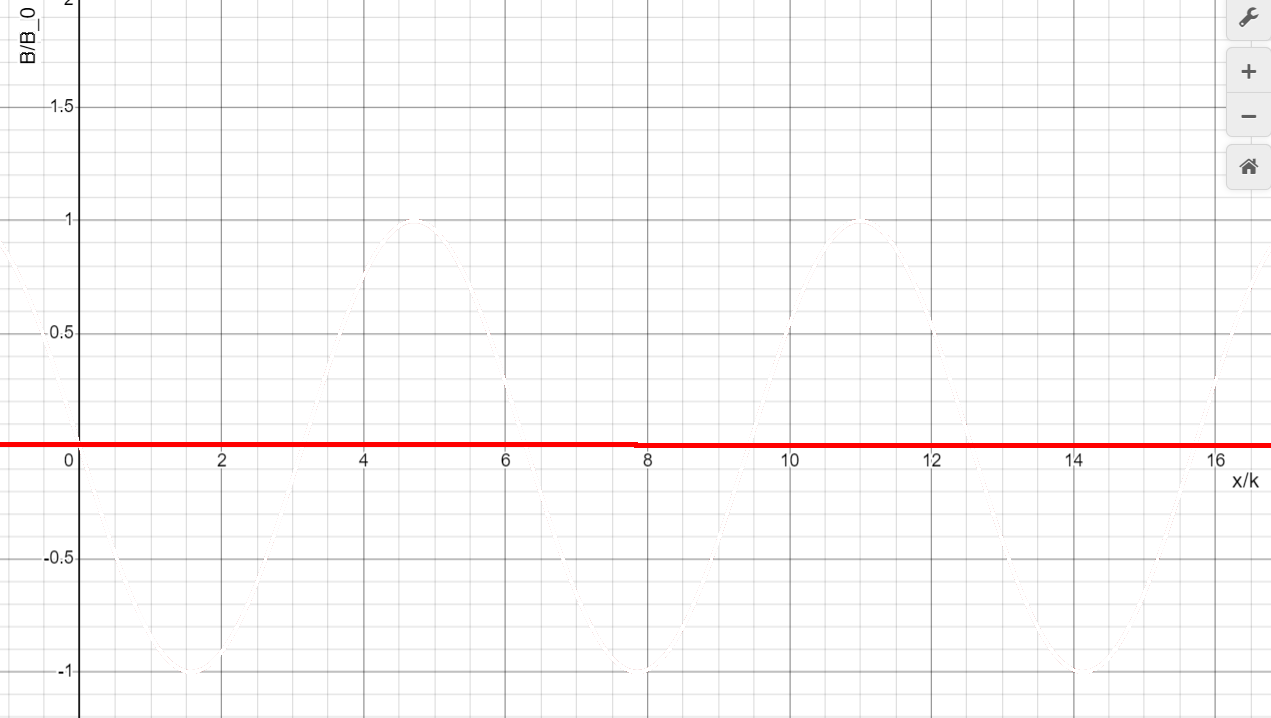
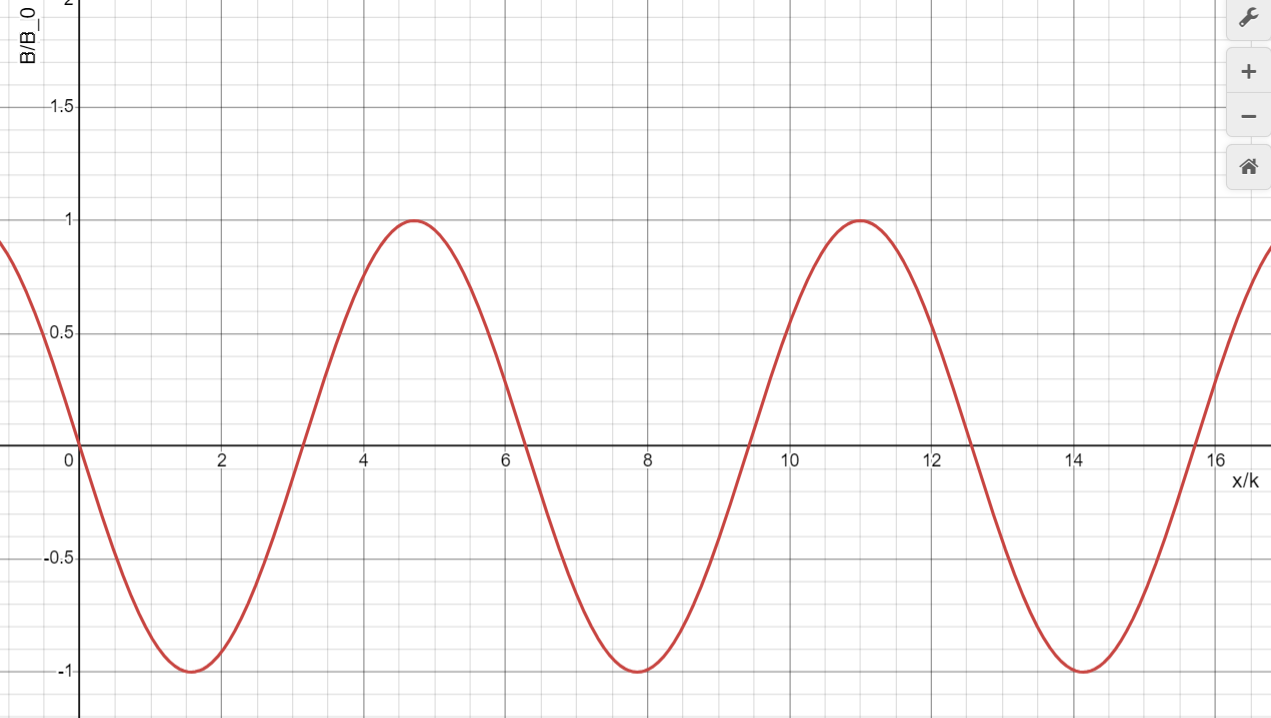
E&M Homework #7

diff --git a/Advanced Electromagnetism/Homework/Homework 8.md b/Advanced Electromagnetism/Homework/Homework 8.md
@@ -1,29 +1,27 @@
 **Name:** Stanley Goodwin
 **Date:** 10/26/2024
-**Collaborators:** None
-**Time Taken:** XXX Hours
+**Collaborators:** Hasan, Chris
+**Time Taken:** 4 Hours
 
 ---
 ## Question 1
 Consider a 3D electromagnetic plane wave in vacuum, described in complex form by $\vec{E}(\vec{r},t)=\vec{E}_0e^{i\left(\vec{k}\cdot\vec{r}-\omega t\right)}$, where $\vec{E_0}=E_0\hat{y}$, with $\vec{E_0}=|E_0|e^{i\pi/2}$. $\vec{k}$ is the wave vector $k\hat{x}$ and $\omega$ is the angular frequency. As usual, the true field is $\vec{E}_r=\Re\left(\vec{E}\right)$.
 ### 1.A
-#### 1.A.I
 *Which direction is the wave moving in, and in what direction does the electric field point?*
 $$\begin{align}
 \text{Wave Propagation} : \hat{x}\\
 \text{Electric Field} : \hat{y}\\
+\text{Magnetic Field} : \hat{z}\\
 \end{align}$$
-#### 1.A.II
 *What is the speed, wavelength, and period of the wave?*
 $$\begin{align}
-T&=\dfrac{2\pi}{\omega}\\
+v&=\dfrac{\omega}{k}\\
 \lambda&=\dfrac{2\pi}{k}\\
-c&=\dfrac{\omega}{k}
+T&=\dfrac{2\pi}{\omega}
 \end{align}$$
-#### 1.A.III
 *What does the phase of $\pi/2$ in $\vec{E_0}$ do?*
-The phase of $\pi/2$ moves the electric wave back by a quarter of a wavelength, shown as a phase offset.
-#### 1.A.IV
+ - The phase of $\pi/2$ moves the electric wave back by a quarter of a wavelength, shown as a phase offset.
+
 Sketch the true field $\vec{E}_r(x,0,0,0)$ (a 2D plot with x on the horizontal axis) and $\vec{E}_r(0,0,0,t)$ (a 2d plot with t on the horizontal axis). Clearly indicate the direction of the field and the scale of both your axes. *How is the field at $(0,a,0)$ different from the field at $y=0$*?
 
 ![[HW8_1AIV_1.png]]
@@ -34,43 +32,170 @@ Sketch the true field $\vec{E}_r(x,0,0,0)$ (a 2D plot with x on the horizontal a
 The field at $(0,a,0)$ is identical to the field at $y=0$, since there is no $y$-component.
 ### 1.B
 *Describe in words what this mathematical expression represents physically. Why is this called a plane wave (where is/are the planes)?*
-
-The plane wave is a 2D cross-section of space whose normal is in the direction of propagation and the plane spanned by the cross product of $\vec{E}$ and $\vec{B}$. Alternatively, the "plane" of the plane wave is the plane of the direction that the Electric field is independent of, and so the $y$ and $z$ axes.
+ - The plane wave is a 2D cross-section of space whose normal is in the direction of propagation and the plane spanned by the cross product of $\vec{E}$ and $\vec{B}$. 
+ - Alternatively, the "plane" of the plane wave is the plane of the direction that the Electric field is independent of, and so the $y$ and $z$ axes.
 
 *Sketch or represent this in 3d. Describe how the direction of the electric field changes in time. If $\vec{E}$ always points along the same axis, the wave is said to be linearly polarized. Is this wave linearly polarized?*
-
 ![[HW8_2.png]]
 **Figure 3:** Plot of the plane wave, the span of $\vec{E}$, scaled by $1/k$ on the $x$-axis.
 
-The wave is linearly polarized since the plane wave never changes direction. It always travels in the $x$ direction found in the $\vec{k}$.
+ - The wave is linearly polarized since the plane wave never changes direction. 
+ - It always travels in the $x$ direction found in the $\vec{k}$.
 ### 1.C
-Find the associated magnetic field $\vec{B}(\vec{r},t)$ for this plane wave. Sketch the magnetic fields $\vec{B}(x,0,0,0)$ and $\vec{B}(0,0,0,t)$ (as above, be clear about your axes. *Describe in words how $B$ compares/contrasts with $E$.*
+Find the associated magnetic field $\vec{B}(\vec{r},t)$ for this plane wave.
+Sketch the magnetic fields $\vec{B}(x,0,0,0)$ and $\vec{B}(0,0,0,t)$ (as above, be clear about your axes.
+*Describe in words how $B$ compares/contrasts with $E$.*
+
 ![[HW8_1C_1.png]]
 **Figure 4:** Plot of $\vec{B}_r(x,0,0,0)$, scaled by $1/k$ on the $x$-axis, and scaled by $1/|B_0|$ on the $y$-axis.
 
 ![[HW8_1C_2.png]]
 **Figure 5:** Plot of $\vec{B}_r(0,0,0,t)$, scaled by $1/\omega$ on the $x$-axis, and scaled by $1/|B_0|$ on the $y$-axis.
-
-The time-dependence is identical, since they are in-phase orthogonal waves.
-The $x$ component of $\vec{B}$ is $0$, since $\vec{B}$ points in the $\hat{z}$ direction.
+ - The time-dependence is identical, since they are in-phase orthogonal waves.
+ - The only difference between the fields is the scaling between the two.
 ### 1.D
-
+Calculate the energy density $\mathcal{U}_\text{EM}$, the Poynting Vector $\vec{S}$, and the momentum density for these fields. Interpret the answers physically—make sense of their units, signs, and directions.
+**Note:** The correct way to do this is to take the real parts of E and B first, and then use the usual formulas to find the desired quantities.
+$$\begin{align}
+\mathcal{U}_\text{EM}&=\epsilon_0 E^2\\
+&=\epsilon_0 |\vec{E}_0|^2\cos^2\left(\vec{k}\cdot\vec{r}-\omega t+\pi/2\right)\\
+\Aboxed{\mathcal{U}_\text{EM}&=\epsilon_0 E_0^2\cos^2\left(\vec{k}\cdot\vec{r}-\omega t+\pi/2\right)}\\
+\Aboxed{\langle\mathcal{U}_\text{EM}\rangle&=\dfrac{1}{2}\epsilon_0 E_0^2}
+\end{align}$$
+$$\begin{align}
+\vec{S}&=\dfrac{\vec{E}\times\vec{B}}{\mu_0}\\
+&=\dfrac{\vec{E}\cdot\vec{E}/c}{\mu_0}\hat{k}\\
+&=\dfrac{E^2}{c\mu_0}\hat{x}\\
+&=c\epsilon_0|\vec{E}_0|^2\cos^2\left(\vec{k}\cdot\vec{r}-\omega t+\pi/2\right)\hat{x}\\
+\Aboxed{\vec{S}&=c\epsilon_0E_0^2\cos^2\left(\vec{k}\cdot\vec{r}-\omega t+\pi/2\right)\hat{x}}\\
+\Aboxed{\langle\vec{S}\rangle&=c\epsilon_0E_0^2\hat{x}}
+\end{align}$$
+$$\begin{align}
+\vec{\mathbb{P}}&=\dfrac{1}{c^2}\vec{S}\\
+&=\dfrac{\epsilon_0E_0^2}{c}\cos^2\left(\vec{k}\cdot\vec{r}-\omega t+\pi/2\right)\hat{x}\\
+\Aboxed{\vec{\mathbb{P}}&=\dfrac{\epsilon_0E_0^2}{c}\cos^2\left(\vec{k}\cdot\vec{r}-\omega t+\pi/2\right)\hat{x}}\\
+\Aboxed{\vec{\langle\mathbb{P}\rangle}&=\dfrac{\epsilon_0E_0^2}{2c}\hat{x}}
+\end{align}$$
 ---
 ## Question 2
-
+Write down the real $\vec{E}$ and $\vec{B}$ fields for a monochromatic plane wave of amplitude $E_0$, frequency $f$ (given in Hz), and phase angle $\pi/2$ that is traveling in the direction from the origin to the point $(1,1,0)$ with polarization in the $xy$-plane. Please give the explicit Cartesian components of $\vec{k}$ and also of the $\vec{E}$ and $\vec{B}$ fields. Your final answer might involve new symbols, but they should all be clearly defined in terms of just the two givens ($E_0$ and $f$) and fundamental constants.
+$$\begin{align}
+\Aboxed{\vec{k}&=\hat{x}+\hat{y}} \implies \hat{k}=\dfrac{1}{\sqrt{2}}\hat{x}+\dfrac{1}{\sqrt{2}}\hat{y}\\
+\Aboxed{\vec{E}(x,y,z,t)&=E_0\cos\left(x+y-\omega t+\pi/2\right)\hat{z}}\\
+\Aboxed{\vec{B}(x,y,z,t)&=\dfrac{E_0}{c}\cos\left(x+y-\omega t+\pi/2\right)\left(\dfrac{-\hat{x}+\hat{y}}{\sqrt{2}}\right)}
+\end{align}$$
 ---
 ## Question 3
+Let’s superpose two plane waves, $\vec{E}_1$ and $\vec{E}_2$, to find the net electric field. Suppose $\vec{E}_1$ and $\vec{E}_2$ are out of phase and polarized in different directions. In particular,
+$$\vec{E}(\vec{r},t)=\vec{E}_1\cos\left(\vec{k}\cdot\vec{r}-\omega t\right)+\vec{E}_2\cos\left(\vec{k}\cdot\vec{r}-\omega t+\pi/2\right)$$
+where $\vec{E}_1=E_0\hat{z}$, $\vec{E}_2=E_0\hat{y}$, and $\vec{k}=k\hat{x}$ ($E_0$ and $k$ are given constants).
 ### 3.A
-
+Simplify $\vec{E}$ to the extent that you can (there’s not much simplifying you can do). 
+*Which direction does this wave travel in? How fast is it propagating?*
+$$\begin{align}
+\vec{E}(\vec{r},t)&=\vec{E}_1\cos\left(\vec{k}\cdot\vec{r}-\omega t\right)+\vec{E}_2\cos\left(\vec{k}\cdot\vec{r}-\omega t+\pi/2\right)\\
+&=E_0\left(\hat{z}\cos\left(\vec{k}\cdot\vec{r}-\omega t\right)-\hat{y}\sin\left(\vec{k}\cdot\vec{r}-\omega t\right)\right)\\
+&=E_0\left(\hat{z}\cos\left(-\vec{k}\cdot\vec{r}+\omega t\right)+\hat{y}\sin\left(-\vec{k}\cdot\vec{r}+\omega t\right)\right)\\
+\end{align}$$
+The wave travels in the $\hat{x}$-direction with a speed is $v=\dfrac{\omega}{k}$.
 ### 3.B
+To visualize how this wave varies in time, we’ll consider some fixed spot(s) and picture the wave there as time goes by. Let’s consider all points in space where $\vec{k}\cdot\vec{r}=0$. 
+
+*Describe this set of points in words, then describe in words and sketches what your electric field looks like there (magnitude and direction) as time proceeds.*
+$$\begin{align}
+\vec{E}(\vec{r},t)&=E_0\left(\hat{z}\cos\left(\omega t\right)+\hat{y}\sin\left(\omega t\right)\right)\\
+\end{align}$$
+ - The electric field is rotating in a circle of constant radius $E_0$, cycling at $\omega$ radians per sec.
+ - I chose not to use a diagram since I think that a video would be better for representation.
+
+ *How would you describe the polarization state? If you look down the axis with the wave approaching you, how would you describe what’s happening to the direction of $\vec{E}$ in time?*
+ - It is circularly polarized light, and seems to be right-chiral, but I could be incorrect.
+ - When looking head-on, perpendicular to the $yz$-plane, it would appear to cycle counterclockwise around the chosen point.
 
 ---
 ## Question 4
+We’ll wrap up this week by considering radiation pressure. On earth, the time-averaged flux of electromagnetic energy $(\langle\vec{S}\rangle)$ from the sun is $0.14\text{ W/cm}^2$.
 ### 4.A
+Consider steady sunlight hitting $1\mathrm{m}^2$ of earth. Picture an imaginary box (containing streaming sunshine) striking this area, with a "box height" of 1 light-second. There is a certain amount of momentum stored in that box, and in one second, ALL of that momentum will strike the $1\mathrm{m}^2$ area. Assuming the EM wave is absorbed (not reflected), what force does that work out to? How does the radiation pressure from this light compare to atmospheric air pressure? And if the earth reflected the sunlight instead, how would that affect the radiation pressure?
+$$\begin{align}
+I&=\dfrac{\langle P\rangle}{A}=\langle|\vec{S}|\rangle\\
+\langle\Delta\vec{\mathbb{P}}\rangle&=\dfrac{\langle|\vec{S}|\rangle}{c^2}=\dfrac{I}{c^2}\\
+&=\dfrac{1400\text{ W/}\text{m}^2}{\left(3\cdot10^8\text{ m/s}\right)^2}\\
+&\approx1.556\cdot10^{-14}\dfrac{\text{ W/}\text{m}^2}{\text{m}^2\text{/s}^2}\\
+\Aboxed{\langle\Delta\vec{\mathbb{P}}\rangle&=1.556\cdot10^{-14}\dfrac{\text{ N}\cdot\text{s}}{\text{m}^3}}
+\end{align}$$
+Here's where it gets tricky. I assumed that since the above is "per unit volume", I just multiplied by the volume of the box.
+$$\begin{align}
+|\Delta\vec{p}|&=\langle\Delta\vec{\mathbb{P}}\rangle\cdot V\\
+&=\left(1.556\cdot10^{-14}\dfrac{\text{ N}\cdot\text{s}}{\text{m}^3}\right)\cdot\left(1\text{m}
+\cdot1\text{m}\cdot3\cdot10^8\text{m}\right)\\
+&=\left(1.556\cdot10^{-14}\dfrac{\text{ N}\cdot\text{s}}{\text{m}^3}\right)\cdot\left(1\text{m}
+\cdot1\text{m}\cdot3\cdot10^8\text{m}\right)\\
+\Aboxed{|\Delta\vec{p}|&\approx4.667\cdot10^{-6}\text{ N}\cdot\text{s}}
+\end{align}$$
+It was mentioned that the momentum change over 1 second is done all at once, and so:
+$$\begin{align}
+\vec{F}&=\dfrac{|\Delta\vec{p}|}{\Delta t}\\
+&=\dfrac{4.667\cdot10^{-6}\text{ N}\cdot\text{s}}{1\text{ s}}\\
+\Aboxed{\vec{F}&=4.667\cdot10^{-6}\text{ N}}\\
+\end{align}$$
+This was a bit hacky but I think it's reasonable. The pressure is much much much smaller than atmospheric pressure, which is $101\text{ kN}$ per square meter, this would be almost negligible.
 
+Supposing earth reflected the light, the change in momentum would be doubled, and so the force would be doubled, but that would still be a very small force.
 ### 4.B
+These days, it’s (relatively) inexpensive to launch tiny satellites ("CubeSats" one liter in volume with mass of around 1.3 kg) into near-earth orbit. Efforts have also been made to steer and boost these satellites by means of reflective “solar sails.” For this problem, we’ll investigate a very basic model of sailing to the moon. We won’t worry about the complicated orbital mechanics here. Just give me a UP1-level estimate of how long it would take for a satellite to sail from near Earth to the moon by using a reflective solar sail with surface area of $32\text{ m}^2$ (this was the size of LightSail’s sails), accelerated by the constant light pressure alone. What are some advantages and disadvantages you can think of for this propulsion method compared to conventional rocket boosters?
 
+Let's assume that the light pressure would be uniform over the trip and that it has the same characteristics of intensity as 4.A.
+$$\begin{align}
+|\vec{P}|&=2\cdot4.667\cdot10^{-6}\text{ N}/\text{m}^2\\
+|\vec{F}|&=|\vec{P}|\cdot A\\
+m\cdot|\vec{a}|&=|\vec{P}|\cdot A\\
+|\vec{a}|&=\dfrac{|\vec{P}|\cdot A}{m}\\
+&=\dfrac{9.334\cdot10^{-6}\text{ N}/\text{m}^2\cdot 32\text{ m}^2}{1.3\text{ kg}}\\
+|\vec{a}|&=2.2974\cdot10^{-4}\text{ m}/\text{s}^2
+\end{align}$$
+Using the distance to the moon $\Delta x=384,400\mathrm{ km}$ and no initial velocity (assuming it was place into orbit and doesn't need to escape earth):
+$$\begin{align}
+\Delta x&=\dfrac{1}{2}a(\Delta t)^2\\
+\Delta t&=\sqrt{\dfrac{2\Delta x}{a}}\\
+&=\sqrt{\dfrac{2\left(384.4\cdot10^6\text{ m}\right)}{2.2974\cdot10^{-4}\text{ m}/\text{s}^2}}\\
+&=1,829,314.5\text{ s}\\
+\Aboxed{\Delta t&\approx 21\text{ days}, 4\text{ hours}}
+\end{align}$$
+The advantage to these kinds of objects is that they don't require hauling fuel that is used for their acceleration, and so they can get very small masses.
+
+However, they won't be able to slow down, nor really control how much acceleration it gets. Even if it does have some method of blocking reflected lights, it would require another light source at the location it wants to slow down at. It is also a very tiny force that is good for the vacuum of space, but not necessarily getting it into orbit.
 ### 4.C
+Fine particles of dust in interplanetary space are pushed out of the solar system by radiation pressure from the Sun, too. That’s why the night sky is nice and dark and transparent. Derive an expression for the size (the radius) of a particle (located 1 AU from the sun, so the solar flux is the same as in part A) that is at the critical size where the outward radiation pressure balances the inward pull of gravity. Insert reasonable numbers in your expression and estimate this critical size. Would the answer you get be different if you were closer, or farther, from the sun?
+
+I used an estimated density of space rock of $3\text{ g/}\text{cm}^3=3000\text{ kg/}\text{m}^3$
+$$\begin{align}
+|\vec{P}|&=4.667\cdot10^{-6}\text{ N}/\text{m}^2\\
+|\vec{P}|\cdot \pi r^2&=\dfrac{GMm}{d^2}\\
+|\vec{P}|\cdot \pi r^2&=\dfrac{GM\rho\cdot\tfrac{4}{3}\pi r^3}{d^2}\\
+r&=\dfrac{|\vec{P}|\cdot \pi d^2}{GM\rho\cdot\tfrac{4}{3}\pi}\\
+&=\dfrac{3}{4}\dfrac{|\vec{P}|}{\rho}\dfrac{d^2}{GM}\\
+&=\dfrac{3}{4}\dfrac{4.667\cdot10^{-6}\text{ N}/\text{m}^2}{3000\text{ kg/}\text{m}^3}\dfrac{\left(1.496\cdot10^{11}\text{m}\right)^2}{\left(6.674\cdot10^{-11}\text{ N}\cdot\text{m}^2/\text{kg}^2\right)\left(1.989\cdot10^{30}\text{ kg}\right
+)}\\
+\Aboxed{r&\approx1.967\cdot10^{-7}\text{ m}=196.7\text{ nm}}
+\end{align}$$
+If I were closer to the sun, the radius would have to be smaller since the intensity of light would be larger when its closer to the sun. Supposing I was further from the sun, the radius can be larger since the amount of light intensity drops off as you get further away.
 
 ---
 ## Question 5
+Look back at question 1 part D. You might note that another way you might consider doing part D might could be to use the usual formulas, but plugging in your general (complex) fields, and then only AT THE VERY END taking the real part. Try this for $\mathcal{U}_\text{EM}$ and convince yourself (and me) that this gives a different answer. So beware! Complex notation is great, but when dealing with quadratic quantities like energy density or Poynting vector, you must work with the (real) physical fields)
+
+Supposing we don't know about calculating the modulus:
+$$\begin{align}
+\mathcal{U}_\text{EM}&=\epsilon_0 E^2\\
+&=\epsilon_0\vec{E}_0^2e^{2i\left(\vec{k}\cdot\vec{r}-\omega t+\pi/2\right)}\\
+\Aboxed{\mathcal{U}_\text{EM}&=\epsilon_0\vec{E}_0^2e^{2i\left(\vec{k}\cdot\vec{r}-\omega t+\pi/2\right)}}
+\end{align}$$
+If we know about the modulus:
+$$\begin{align}
+\mathcal{U}_\text{EM}&=\epsilon_0 E^2\\
+&=\epsilon_0E^*_0E_0e^{i\left(\vec{k}\cdot\vec{r}-\omega t+\pi/2\right)}e^{-i\left(\vec{k}\cdot\vec{r}-\omega t+\pi/2\right)}\\
+\Aboxed{\mathcal{U}_\text{EM}&=\epsilon_0E^*_0E_0}
+\end{align}$$
+So both answers give us general nonsense, even if the value does end up being real.
+It makes sense, then, why we look at the real part before calculating values using the field.

diff --git a/Quantum Mechanics/Homework/Homework 7.md b/Quantum Mechanics/Homework/Homework 7.md
@@ -4,3 +4,8 @@
 
 ---
 
+### 1.1
+$$\langle\alpha|\alpha\rangle=3^2+\sin^2\theta+7^2=58+\sin^2\theta$$
+$$||\alpha||=\sqrt{58+\sin^2\theta}$$
+### 1.2
+

diff --git a/Quantum Mechanics/Homework/Homework 8.md b/Quantum Mechanics/Homework/Homework 8.md
@@ -1,0 +1,6 @@
+**Name:** Stanley Goodwin
+**Date:** 11/01/2024
+**Collaborators:** None
+
+---
+
